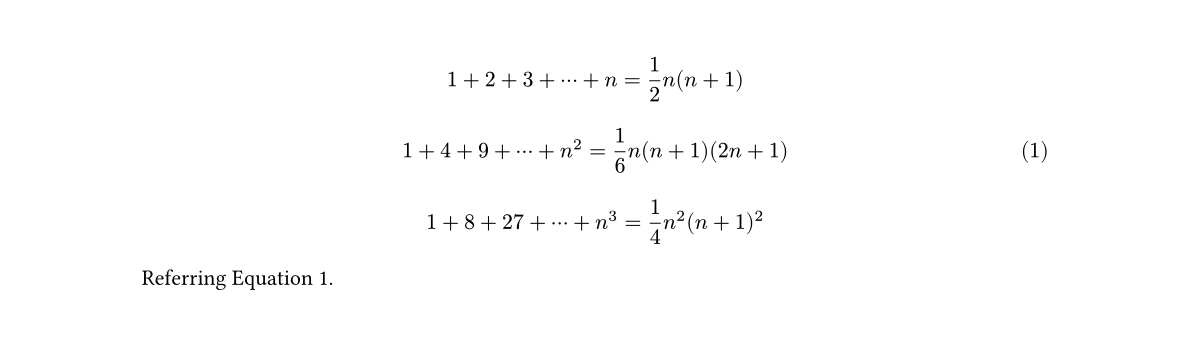
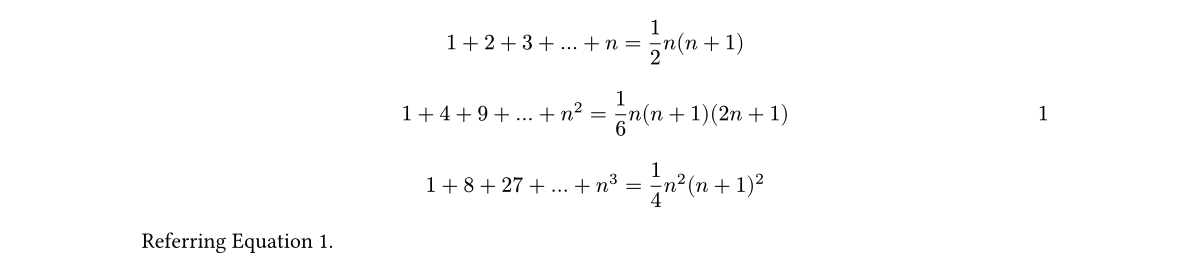
check typst 0.13.0

diff --git a/README.md b/README.md
@@ -2,7 +2,7 @@
 # typst-autoeqnum
 
 Automatic equation numbering in [typst](https://typst.app/).
-This is inspired by [autonum](https://ctan.org/pkg/autonum) package in latex.
+This is inspired by [autonum](https://ctan.org/pkg/autonum) package in LaTeX.
 
 ## Usage
 
@@ -20,9 +20,9 @@ Example:
 #import "./autoeqnum.typ": autoeqnum
 #show: autoeqnum.with()
 
-$ 1 + 2 + 3 + dots.c + n = 1/2 n(n+1) $ <label1>
-$ 1 + 4 + 9 + dots.c + n^2 = 1/6 n(n+1)(2 n+1) $ <label2>
-$ 1 + 8 + 27 + dots.c + n^3 = 1/4 n^2 (n+1)^2 $
+$ 1 + 2 + 3 + dots + n = 1/2 n(n+1) $ <label1>
+$ 1 + 4 + 9 + dots + n^2 = 1/6 n(n+1)(2 n+1) $ <label2>
+$ 1 + 8 + 27 + dots + n^3 = 1/4 n^2 (n+1)^2 $
 
 Referring @label2.
 ```
@@ -36,13 +36,12 @@ Referring @label2.
   - `"label"`: Equations with labels.
   - `"ref"`: Equations with referenced labels (default).
   - `"never"`: No equation labels are displayed.
-- `numbering`: Passed to `math.equation`.
+- `numbering`: Passed to `math.equation(numbering)`.
   Do not set `math.equation(numbering)` directly when using `autoeqnum` package.
 
 Example:
 
 ```typst
-
 #import "./autoeqnum.typ": autoeqnum
 #set heading(numbering: "1.")
 #show heading.where(level: 2): set heading(level: 1)
@@ -50,10 +49,13 @@ Example:
 	counter(math.equation).update(0)
 	it
 }
-#show: autoeqnum.with(mode: "label", numbering: it => {
-	let count = counter(heading.where(level: 1)).get().first()
-	numbering("(1.1)", count, it)
-})
+#show: autoeqnum.with(
+	mode: "label", 
+	numbering: it => {
+		let count = counter(heading.where(level: 1)).get()
+		numbering("(1.1)", ..count, it)
+	}
+)
 
 == Section 1
 
@@ -61,9 +63,9 @@ $ a^2 + b^2 = c^2 $ <label1>
 
 == Section 2
 
-$ a^2 + b^2 = c^2 $ <label2>
+$ a^n + b^n = c^n $ <label2>
 
-Referring @label1.
+Referring @label2.
 ```
 
 ![example 2](./example2.png)
